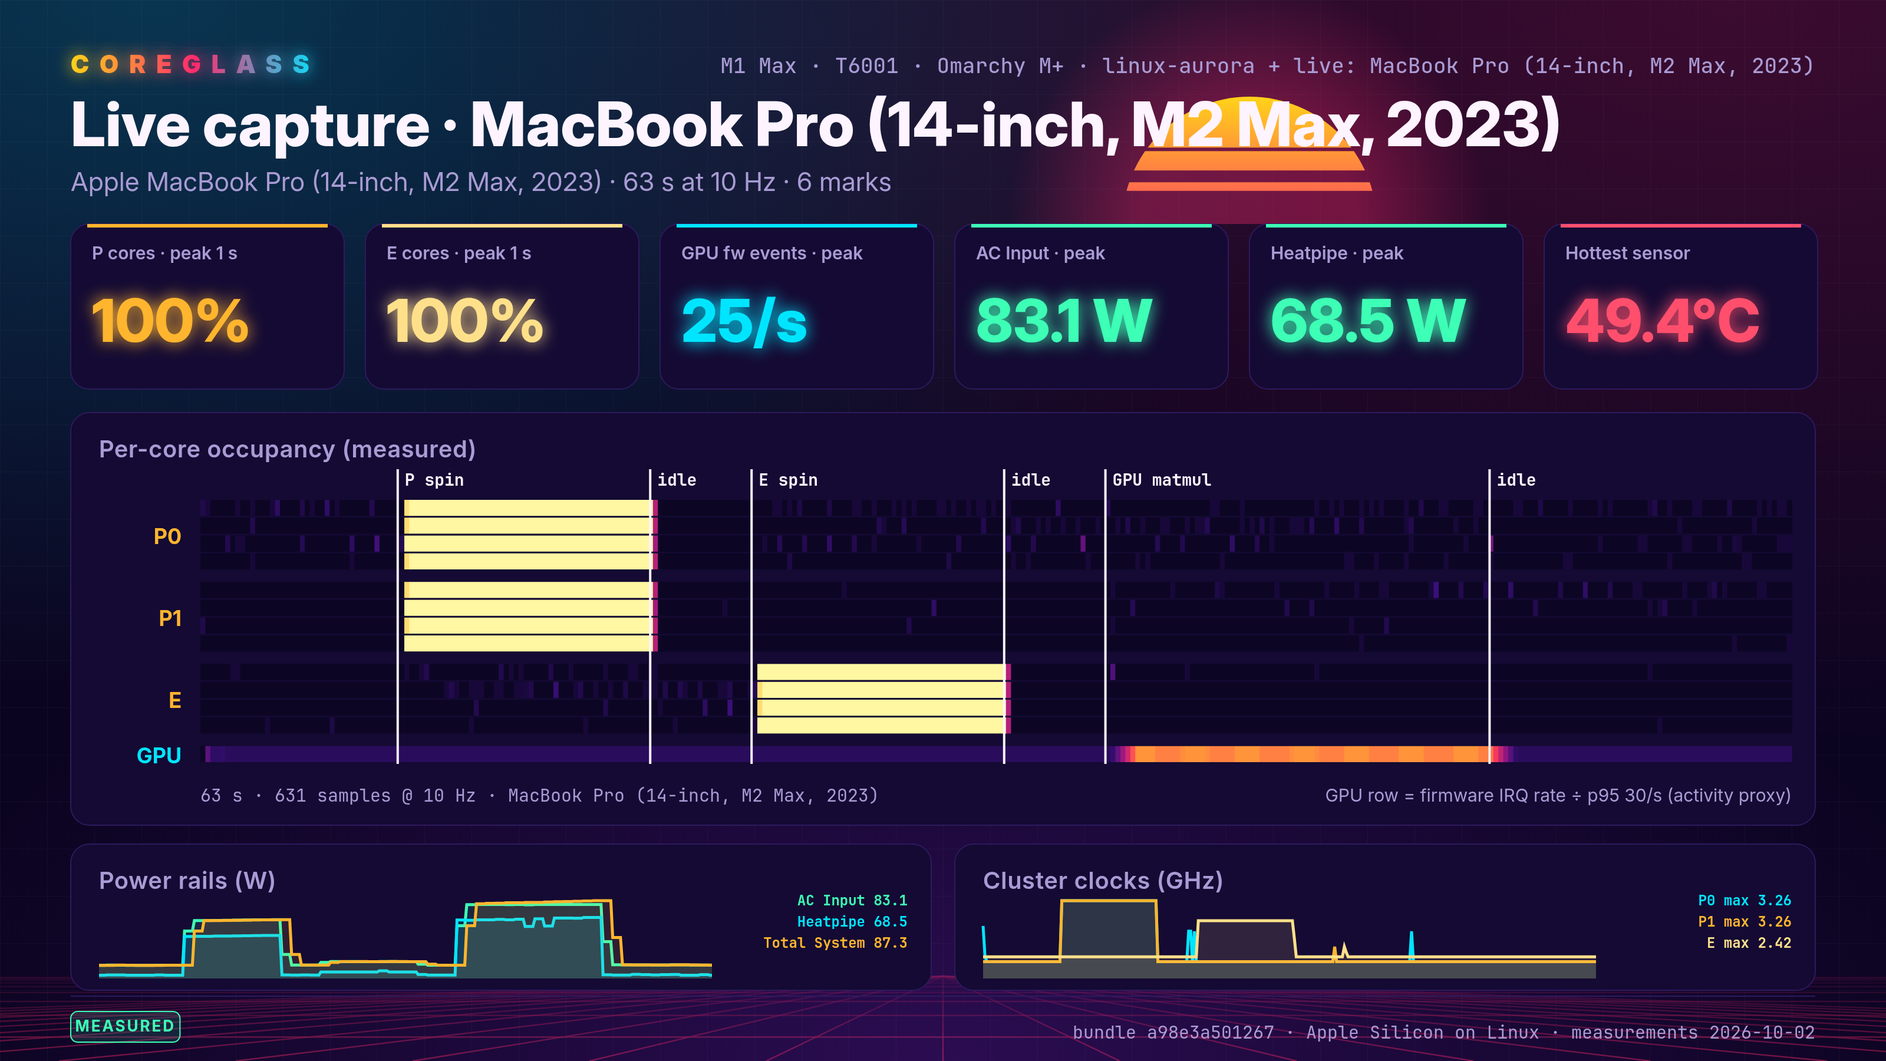
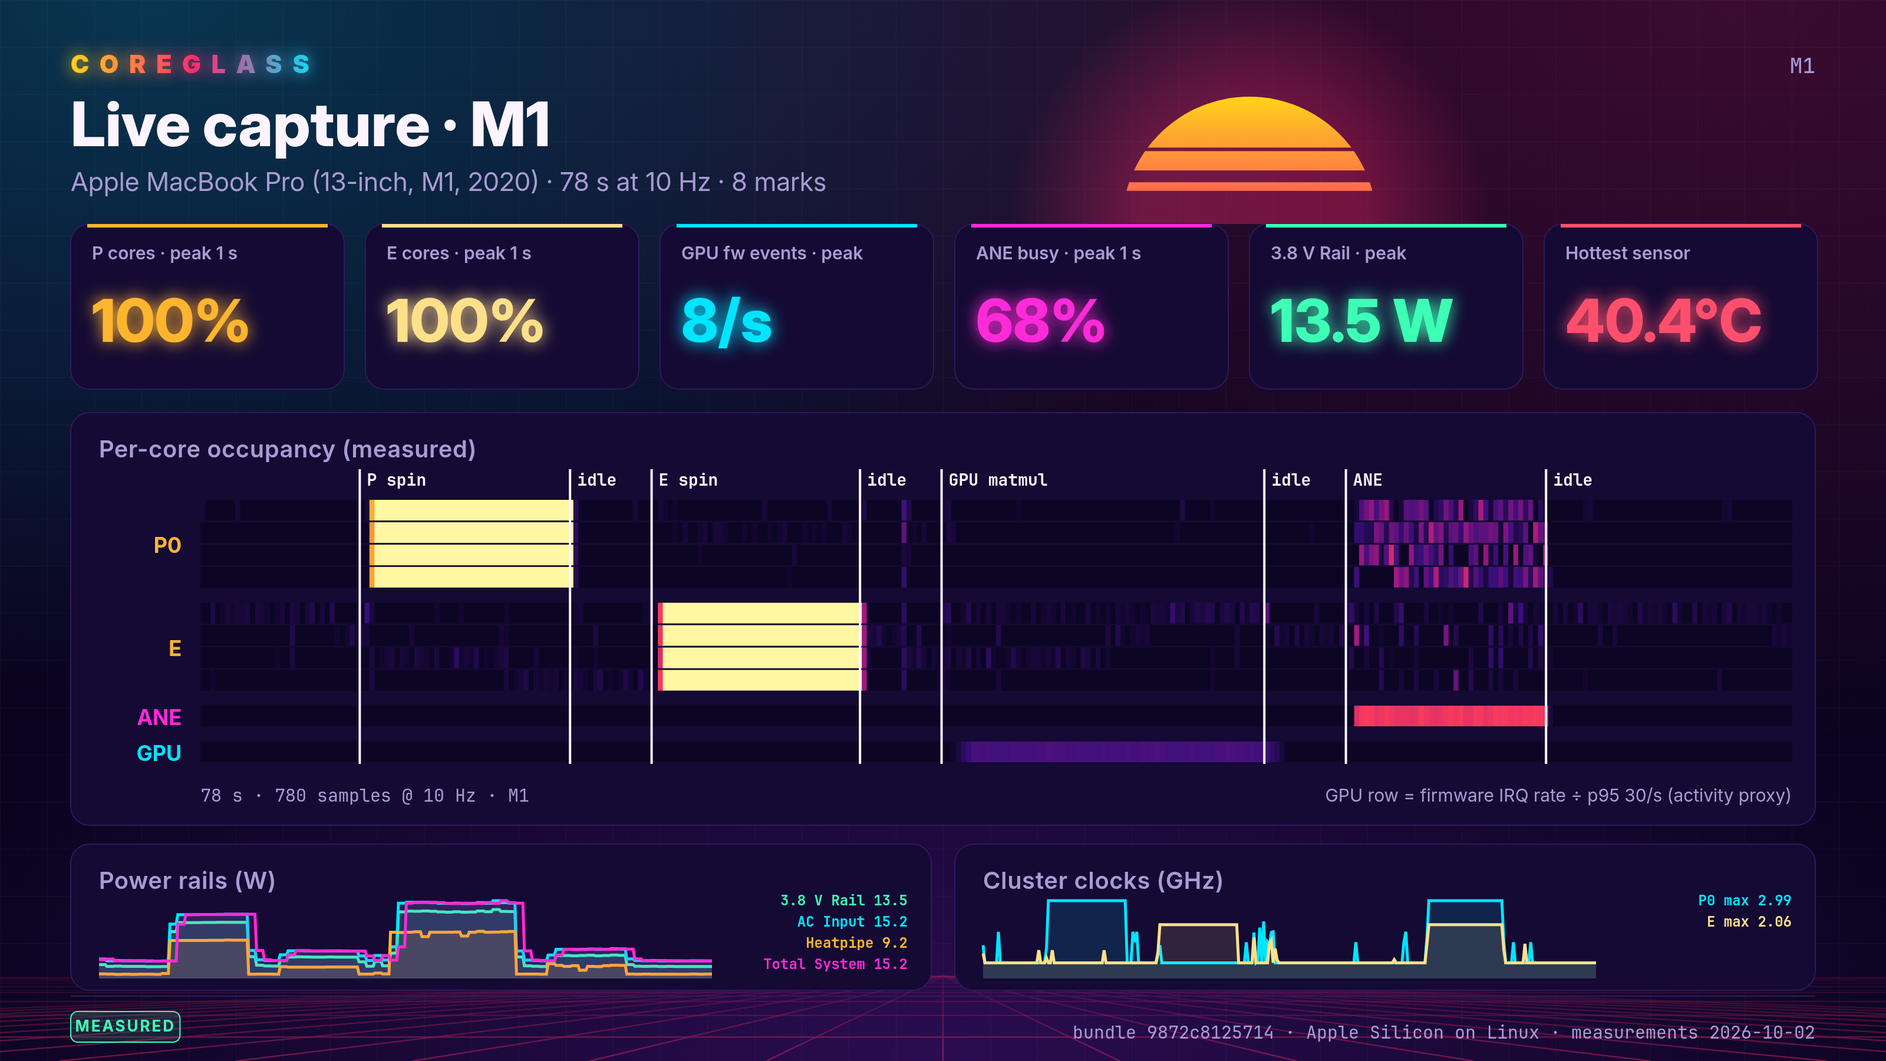
Show the ANE: probe step, live tile and row, capture frame
The probe now runs an ANE step when the target's entry sets `ane_cmd`, under the
GPU lock and an optional `ane_lock`. The live screen and the capture frame show
ANE busy time from `ane_stats`. On targets without it they say why: the driver
is loaded but exports no stats, or no ANE driver is bound. Target cards show the
ANE state.

Also: the embedded live screen no longer stays on "Waiting for sampler" when a
run attaches its session late. The capture frame names the capture's own host,
and --anonymize shortens that host to the chip name.

diff --git a/coreglass/livepage.py b/coreglass/livepage.py
@@ -58,7 +58,10 @@ function rows(){if(!meta)return[];const out=[];
   for(const n of meta.irq){if(n==='gpu_fw'&&eng.includes('gpu'))continue;
     out.push({label:n==='gpu_fw'?'GPU fw':n.replace(/\.?[0-9a-f]{6,}\.?/,'').slice(0,8)||'ANE',group:n,
     color:n==='gpu_fw'?C.gpu:C.ane,get:s=>(s.sirq[n]??0)/Math.max(irqMax[n]||0,30)})}
+  if(!eng.includes('ane')&&!meta.irq.some(n=>n!=='gpu_fw'))out.push({label:'ANE',group:'ANE',color:C.ane,none:aneWhy()});
   return out}
+function aneWhy(){const a=meta.accel;if(!a)return 'no ANE busy data in this capture';
+  return a.some(d=>d.startsWith('ane'))?'ANE driver loaded · it exports no ane_stats yet':'no ANE driver bound on this host'}
 function pickRail(pref){if(!meta||!meta.rails.length)return null;for(const p of pref){const r=meta.rails.find(x=>x.toLowerCase().includes(p));if(r)return r}return null}
 function avg(a){return a.length?a.reduce((x,y)=>x+y,0)/a.length:0}
 function clusterBusy(s,label){const cs=meta.clusters.filter(c=>label==='E'?c.label==='E':c.label!=='E').flatMap(c=>c.cpus);return avg(cs.map(i=>s.cpu[i]??0))}
@@ -75,7 +78,7 @@ function draw(){
   if(meta)txt([meta.host,meta.model,meta.kernel].filter(Boolean).join(' · '),W-60,62,17,C.dim,500,'right',true);
   const last=S[S.length-1];
   txt(meta?`${meta.replay?'Replay':'Live'} · ${meta.host}`:'Waiting for sampler…',60,124,52,C.text,800);
-  if(meta)txt(`Per-core CPU, GPU firmware events, power · ${meta.hz} Hz · ${last?last.t.toFixed(1):'0.0'} s · ${S.length} samples in view`,60,162,22,C.dim);
+  if(meta)txt(`Per-core CPU, GPU, ANE, power · ${meta.hz} Hz · ${last?last.t.toFixed(1):'0.0'} s · ${S.length} samples in view`,60,162,22,C.dim);
   if(!meta){requestAnimationFrame(draw);return}
   const recent=S.slice(-Math.max(1,Math.round(meta.hz)));
   const sys=pickRail(['total system','system']), soc=pickRail(['heatpipe','package','soc','cpu']);
@@ -86,12 +89,14 @@ function draw(){
     ...((meta.engines||[]).includes('gpu')
       ?[['GPU busy (driver)',v=>(100*v).toFixed(0)+'%',s=>s.eng?.gpu?.busy??0,C.gpu,1,true]]
       :[['GPU firmware events',v=>v.toFixed(0)+'/s',s=>s.irq.gpu_fw||0,C.gpu,0,meta.irq.includes('gpu_fw')]]),
+    ['ANE busy (driver)',v=>(100*v).toFixed(0)+'%',s=>s.eng?.ane?.busy??0,C.ane,1,(meta.engines||[]).includes('ane'),aneWhy()],
     [soc||'SoC power rail',v=>v.toFixed(1)+' W',s=>soc?s.w[soc]||0:0,C.mem,0,!!soc],
     [sys||'System power rail',v=>v.toFixed(1)+' W',s=>sys?s.w[sys]||0:0,C.mem,0,!!sys],
     ['Hottest sensor',v=>v.toFixed(1)+'°C',s=>Math.max(...Object.values(s.c),0),C.sync,0,meta.temps.length>0]];
-  tiles.forEach(([label,fmt,get,c,unit,ok],i)=>{const x=60+i*250,y=188,w=232,h=142;rr(x,y,w,h,14,C.panel,C.edge);g.fillStyle=ok?c:C.edge;g.fillRect(x+14,y,w-28,3);
-    txt(label.length>24?label.slice(0,23)+'…':label,x+18,y+30,15,C.dim,600);
-    if(!ok){txt('n/a',x+18,y+84,46,C.edge,800);txt('no source on this host',x+18,y+118,13,C.dim);return}
+  const tw=(1480-18*(tiles.length-1))/tiles.length;
+  tiles.forEach(([label,fmt,get,c,unit,ok,why],i)=>{const x=60+i*(tw+18),y=188,w=tw,h=142;rr(x,y,w,h,14,C.panel,C.edge);g.fillStyle=ok?c:C.edge;g.fillRect(x+14,y,w-28,3);
+    txt(label.length>22?label.slice(0,21)+'…':label,x+18,y+30,15,C.dim,600);
+    if(!ok){txt('n/a',x+18,y+84,46,C.edge,800);(why||'no source on this host').split(' · ').forEach((l,k)=>txt(l,x+18,y+110+k*16,12,C.dim));return}
     const v=avg(recent.map(get));g.shadowColor=c;g.shadowBlur=18;txt(last?fmt(v):'–',x+18,y+84,46,c,800);g.shadowBlur=0;
     spark(x+18,y+96,w-36,34,S.map(get),c,unit?1:0)});
   const R=rows(), hx=170, hy=372, hw=1370, hh=268, top=hy+40;
@@ -103,6 +108,7 @@ function draw(){
   let lastLab=-99;
   R.forEach((r,i)=>{const y=top+i*rh;
     if((i===0||R[i-1].group!==r.group)&&y-lastLab>=15){lastLab=y;txt(r.group==='gpu_fw'?'GPU':r.label.split('·')[0],hx-16,y+Math.max(rh*.75,11),15,r.color,800,'right')}
+    if(r.none){g.fillStyle=rgba(C.edge,.5);g.fillRect(hx,y,hw,rh-1.5);txt(r.none,hx+12,y+rh*.7,13,C.dim,600,'left',true);return}
     view.forEach((s,j)=>{g.fillStyle=col(r.get(s));g.fillRect(x0+j*cw,y,cw+.6,rh-1.5)})});
   const t1=last?last.t:0;
   for(let k=0;k<=WINDOW;k+=10){const x=hx+hw-k/WINDOW*hw;g.fillStyle='rgba(255,255,255,.12)';g.fillRect(x,top-6,1,R.length*rh+10);
@@ -122,7 +128,9 @@ function draw(){
     txt(`${c.label} ${last?((last.khz[c.label]||0)/1e6).toFixed(2):''}`,1520,770+i*18,12,c.label==='E'?C.e:pal[i+1],700,'right',true)});
   g.fillStyle=C.edge;g.fillRect(60,848,1480,1);
   chip(60,858,'MEASURED',P.measured);
-  txt('read-only procfs/sysfs sampler · GPU row = firmware mailbox IRQ rate (activity proxy, not busy time)',214,876,13,C.dim);
+  const en=meta.engines||[];
+  txt(['read-only procfs/sysfs sampler',en.includes('gpu')?'GPU = driver busy time':'GPU = firmware IRQ rate (activity proxy, not busy time)',
+    en.includes('ane')?'ANE = driver busy time':'ANE busy needs ane_stats'].join(' · '),214,876,13,C.dim);
   txt(`coreglass live · ${new Date().toISOString().slice(0,19)}Z`,W-60,876,13,C.dim,400,'right',true);
   requestAnimationFrame(draw)}
 let lastRecv=0;

diff --git a/coreglass/views.py b/coreglass/views.py
@@ -104,12 +104,13 @@ def horizon(fid, y0=828, alpha=0.42):
     return f'<g opacity="{alpha}">{out}</g>'
 
 
-def frame(fid, title, subtitle, body, b, provs, demo):
+def frame(fid, title, subtitle, body, b, provs, demo, pill=None):
     host = b.get("host", {})
-    pill = " · ".join(str(host[k]) for k in ("alias", "chip", "soc", "os", "kernel") if host.get(k))
     cap = b.get("capture")
-    if cap and cap["host"] not in pill:
-        pill += f"  +  live: {cap['host']}"
+    if pill is None:
+        pill = " · ".join(str(host[k]) for k in ("alias", "chip", "soc", "os", "kernel") if host.get(k))
+        if cap and cap["host"] not in pill:
+            pill += f"  +  live: {cap['host']}"
     used = sorted({p for p in provs if p} | ({"demo"} if demo else set()), key=list(PROV).index)
     foot, x = "", 60
     for p in used:
@@ -605,15 +606,17 @@ def view_capture(b, demo):
              ("E cores · peak 1 s", st["e_busy"], lambda v: f"{100 * v:.0f}%", PAL["e"]),
              ("GPU busy · peak 1 s", st["gpu_busy"], lambda v: f"{100 * v:.0f}%", LANE["gpu"])
              if st.get("gpu_busy") is not None else
-             ("GPU fw events · peak", st["gpu_irq"], lambda v: f"{v:.0f}/s", LANE["gpu"])]
-    tiles += [(f"{r.replace(' Power', '')} · peak", st["rails"][r], lambda v: f"{v:.1f} W", LANE["mem"]) for r in rails[:2]]
+             ("GPU fw events · peak", st["gpu_irq"], lambda v: f"{v:.0f}/s", LANE["gpu"]),
+             ("ANE busy · peak 1 s", st.get("ane_busy"), lambda v: f"{100 * v:.0f}%", LANE["ane"])]
+    tiles += [(f"{r.replace(' Power', '')} · peak", st["rails"][r], lambda v: f"{v:.1f} W", LANE["mem"]) for r in rails[:1]]
     tiles.append(("Hottest sensor", st["temp_max"], lambda v: f"{v:.1f}°C", LANE["sync"]))
     for i, (label, v, fmt, c) in enumerate(tiles[:6]):
         x = 60 + i * 250
         body += panel(x, 190, 232, 140) + r(x + 14, 190, 204, 3, c if v is not None else EDGE)
         body += t(x + 18, 220, label, 15, DIM, 600)
+        why = "driver exports no ane_stats" if label.startswith("ANE") else "no source on this host"
         body += (t(x + 18, 290, fmt(v), 50, c, 800, extra='filter="url(#capture-glow)"') if v is not None
-                 else t(x + 18, 290, "n/a", 50, EDGE, 800) + t(x + 18, 316, "no source on this host", 13, DIM))
+                 else t(x + 18, 290, "n/a", 50, EDGE, 800) + t(x + 18, 316, why, 13, DIM))
     body += panel(60, 350, 1480, 350, "Per-core occupancy (measured)")
     body += capture_heat(b, 80, 398, 1440, 296)
     body += panel(60, 716, 730, 124, "Power rails (W)") + panel(810, 716, 730, 124, "Cluster clocks (GHz)")
@@ -630,7 +633,7 @@ def view_capture(b, demo):
         body += t(1520, 768 + i * 18, f"{lab} max {max(vals):.2f}", 12, c, 700, "end", mono=True)
     return frame("capture", f"Live capture · {cap['host']}",
                  f"{cap['model']} · {cap['seconds']:g} s at {cap['hz']:g} Hz · {len(cap['marks'])} marks", body, b,
-                 ["measured"], demo)
+                 ["measured"], demo, pill=" · ".join(x for x in (cap["host"], cap["kernel"]) if x))
 
 
 VIEWS = [("hero", view_hero), ("time", view_time), ("bandwidth", view_bandwidth),

diff --git a/coreglass/remote.py b/coreglass/remote.py
@@ -37,10 +37,12 @@ for d in os.listdir("/proc"):
 model = open("/proc/device-tree/model").read().strip("\0\n") if os.path.exists("/proc/device-tree/model") else ""
 stats = {name: any(os.access(p, os.R_OK) for p in glob.glob(pat)) for name, pat in
          (("agx_stats", "/sys/class/drm/card*/device/agx_stats"), ("ane_stats", "/sys/class/accel/accel*/device/ane_stats"))}
+accel = sorted({os.path.basename(os.path.realpath(p)) for p in glob.glob("/sys/class/accel/accel*/device/driver")})
 print(json.dumps({"hostname": platform.node(), "arch": platform.machine(), "model": model,
                   "kernel": platform.release(), "python": platform.python_version(),
                   "load1": os.getloadavg()[0], "gpu_lock_held": held(lock), "busy": busy[:3],
-                  "mlx_python": bool(mlx) and os.access(mlx, os.X_OK), "stats": [k for k, v in stats.items() if v]}))
+                  "mlx_python": bool(mlx) and os.access(mlx, os.X_OK), "stats": [k for k, v in stats.items() if v],
+                  "accel": accel}))
 """
 
 SPIN = "for c in {cpus}; do timeout {secs} taskset -c $c sh -c 'while :; do :; done' coreglass-spin & done; wait || true"
@@ -56,6 +58,9 @@ while time.time() < end:
     n += 1
 print(f"matmuls={{n}} tflops={{n * 2 * 4096**3 / {secs} / 1e12:.2f}}", flush=True)
 PY"""
+ANE = """end=$(( $(date +%s) + {secs} )); n=0
+while [ "$(date +%s)" -lt "$end" ]; do {lock}sh -c {cmd} >/dev/null || exit 3; n=$((n + 1)); done
+echo ane_batches=$n"""
 
 
 def load_hosts():
@@ -118,7 +123,8 @@ def hosts_cmd(names):
 
 
 def probe_steps(host, meta, secs):
-    """Built-in steps: spin every P core, spin every E core, then an MLX matmul under the GPU lock."""
+    """Built-in steps: spin every P core, spin every E core, an MLX matmul under the GPU lock, then the
+    host's `ane_cmd` in a loop under the GPU lock (and `ane_lock`, when set)."""
     by = {c["label"]: c["cpus"] for c in meta["clusters"]}
     p = [c for lab, cs in by.items() if lab != "E" for c in cs]
     steps = [("P spin", SPIN.format(cpus=" ".join(map(str, p)), secs=secs), False)] if p and "E" in by else []
@@ -128,6 +134,9 @@ def probe_steps(host, meta, secs):
         steps.append(("CPU spin", SPIN.format(cpus=" ".join(map(str, p)), secs=secs), False))
     if host.get("mlx_python"):
         steps.append(("GPU matmul", MATMUL.format(py=host["mlx_python"], secs=secs + 5), True))
+    if host.get("ane_cmd"):
+        lock = f"flock -w 60 {shlex.quote(host['ane_lock'])} " if host.get("ane_lock") else ""
+        steps.append(("ANE", ANE.format(secs=secs, lock=lock, cmd=shlex.quote(host["ane_cmd"])), True))
     return steps
 
 

diff --git a/coreglass/apppage.py b/coreglass/apppage.py
@@ -89,7 +89,7 @@ BODY = """
 <div id="splash"><div><div class="sun"></div><div class="mark">Coreglass</div></div></div>
 <div id="help" hidden onclick="toggleHelp()"><div class="card"><span class="mark">Keys</span><dl>
 <dt><kbd>1</kbd>–<kbd>9</kbd></dt><dd>pick a target</dd><dt><kbd>l</kbd></dt><dd>watch the target live</dd>
-<dt><kbd>r</kbd></dt><dd>run the probe: P cores, E cores, GPU matmul</dd><dt><kbd>esc</kbd></dt><dd>stop</dd>
+<dt><kbd>r</kbd></dt><dd>run the probe: P cores, E cores, GPU matmul, ANE</dd><dt><kbd>esc</kbd></dt><dd>stop</dd>
 <dt><kbd>m</kbd></dt><dd>drop a mark on the timeline</dd><dt><kbd>f</kbd></dt><dd>full-screen the live screen</dd>
 <dt><kbd>↑</kbd> <kbd>↓</kbd></dt><dd>pick a capture</dd><dt><kbd>enter</kbd></dt><dd>replay it</dd>
 <dt><kbd>b</kbd></dt><dd>build shareable frames</dd><dt><kbd>t</kbd></dt><dd>synthwave ⇄ your Omarchy theme</dd>
@@ -111,7 +111,8 @@ function renderHosts(){$('#hosts').innerHTML=hosts.map((h,i)=>{const p=h.preflig
   const busy=h.blockers.length>0;return `<div class="host ${i===hi?'sel':''}" onclick="hi=${i};renderHosts()">
   <div class="hn"><kbd>${i+1}</kbd><b>${esc(h.name)}</b><span class="badge ${cls}">${txt}</span></div>
   <div class="hm">${esc(p.reachable?p.model.replace(/^Apple /,''):h.ssh)}</div>
-  ${p.reachable?`<div class="hx">${esc(p.arch)} · load ${p.load1.toFixed(2)} · MLX ${p.mlx_python?'✓':'–'} · stats ${p.stats.length?esc(p.stats.join(',')):'–'}</div>`:''}
+  ${p.reachable?`<div class="hx">${esc(p.arch)} · load ${p.load1.toFixed(2)} · GPU ${p.stats.includes('agx_stats')?'stats':'irq'} · MLX ${p.mlx_python?'✓':'–'}</div>
+  <div class="hx">ANE ${p.stats.includes('ane_stats')?'stats ✓':(p.accel||[]).some(d=>d.startsWith('ane'))?'driver, no stats':'–'} · ANE probe ${h.ane?'✓':'–'}</div>`:''}
   ${busy?`<div class="why">${esc(h.blockers[0])}</div>`:''}
   <div class="hb"><button onclick="event.stopPropagation();hi=${i};live()" ${p.reachable?'':'disabled'}>Live<kbd>l</kbd></button>
   <button class="primary" onclick="event.stopPropagation();hi=${i};run()" ${busy||!p.reachable?'disabled':''}>Run probe<kbd>r</kbd></button></div></div>`}).join('')}

diff --git a/coreglass/model.py b/coreglass/model.py
@@ -7,6 +7,7 @@ modeled or demo value off as a measurement.
 
 import hashlib
 import json
+import re
 from pathlib import Path
 
 SCHEMA = "coreglass/v1"
@@ -51,7 +52,8 @@ def anonymize(b):
     cap, host = b.get("capture") or {}, b.get("host", {})
     swaps = {host.get(k): "" for k in ("alias", "kernel", "runtime") if host.get(k)}
     if cap:
-        swaps |= {cap["host"]: (cap.get("model") or "target").removeprefix("Apple "), cap["src"]: "capture"}
+        chip = re.search(r"\bM\d+(?: (?:Pro|Max|Ultra))?\b", cap.get("model", ""))
+        swaps |= {cap["host"]: chip.group(0) if chip else "target", cap["src"]: "capture"}
         swaps |= {cap["kernel"]: ""} if cap.get("kernel") else {}
     text = json.dumps(b)
     for old, new in sorted(swaps.items(), key=lambda kv: -len(kv[0])):

diff --git a/coreglass/live.py b/coreglass/live.py
@@ -76,12 +76,13 @@ class LiveHandler(BaseHTTPRequestHandler):
 
     def serve_events(self):
         hub = self.hub()
-        if hub is None:
-            return self.send_error(404, "no active session")
         self.send_response(200)
         self.send_header("Content-Type", "text/event-stream")
         self.send_header("Cache-Control", "no-cache")
         self.end_headers()
+        if hub is None:  # session still connecting: tell EventSource to reconnect in 1 s
+            self.wfile.write(b"retry: 1000\n\n")
+            return
         q = hub.subscribe()
         try:
             while True:

diff --git a/coreglass/ingest.py b/coreglass/ingest.py
@@ -77,6 +77,8 @@ def capture(path, cols=320):
         "gpu_irq": peak([s["irq"].get("gpu_fw", 0.0) for s in samples]) if "gpu_fw" in meta["irq"] else None,
         "gpu_busy": peak([s.get("eng", {}).get("gpu", {}).get("busy", 0.0) for s in samples]) if "gpu" in engines
         else None,
+        "ane_busy": peak([s.get("eng", {}).get("ane", {}).get("busy", 0.0) for s in samples]) if "ane" in engines
+        else None,
         "rails": {r: peak([s["w"].get(r, 0.0) for s in samples]) for r in rails},
         "temp_max": max((v for s in samples for v in s["c"].values()), default=None),
     }

diff --git a/coreglass/sampler.py b/coreglass/sampler.py
@@ -136,6 +136,7 @@ def main():
         "rails": sorted(label for kind, label in rails if kind == "w"),
         "temps": sorted(label for kind, label in rails if kind == "c"),
         "irq": sorted(irq_counts(want)), "engines": sorted(eng), "started": time.time(),
+        "accel": sorted({os.path.basename(os.path.realpath(p)) for p in glob.glob("/sys/class/accel/accel*/device/driver")}),
     }}), flush=True)
     prev_cpu, prev_irq, prev_t = cpu_times(), irq_counts(want), time.monotonic()
     prev_eng = {name: read_kv(p) for name, p in eng.items()}

diff --git a/coreglass/app.py b/coreglass/app.py
@@ -134,7 +134,7 @@ class App:
             h = remote.resolve(n)
             pf = remote.preflight(h)
             return {"name": n, "ssh": h["ssh"], "chip": h.get("chip", ""), "mlx": bool(h.get("mlx_python")),
-                    "preflight": pf, "blockers": remote.blockers(pf)}
+                    "ane": bool(h.get("ane_cmd")), "preflight": pf, "blockers": remote.blockers(pf)}
         with ThreadPoolExecutor(max_workers=8) as ex:
             return {"file": str(path), "hosts": list(ex.map(one, names))}
 

diff --git a/README.md b/README.md
@@ -26,12 +26,12 @@ List your targets in `~/.config/coreglass/hosts.toml`. Start from [hosts.example
 Launch Coreglass from the app launcher, or run `coreglass` with no arguments.
 It opens in its own window and drives everything from the keyboard.
 
-![The Coreglass app replaying a capture from an M2 Max](docs/app.png)
+![The Coreglass app replaying a probe on an M1: P cores, E cores, GPU matmul, then the ANE at 68% busy](docs/app.png)
 
 | Key | Action |
 |---|---|
 | `1` to `9` | pick a target |
-| `l` / `r` | watch it live / run the probe (P cores, E cores, GPU matmul) |
+| `l` / `r` | watch it live / run the probe (P cores, E cores, GPU matmul, ANE) |
 | `m` / `f` / `esc` | mark the timeline / full screen / stop |
 | `↑` `↓` then `enter` | pick a capture and replay it |
 | `b` | build shareable frames from the capture |
@@ -45,7 +45,7 @@ Captures and frames live in `~/.local/share/coreglass/`.
 ```sh
 coreglass hosts                      # reachable? arch, model, load, GPU lock, MLX per target
 coreglass live m2max                 # live dashboard at http://127.0.0.1:8777/
-coreglass run m2max                  # capture + P-core, E-core, and MLX GPU probe steps, with marks
+coreglass run m2max                  # capture + P-core, E-core, GPU, and ANE probe steps, with marks
 coreglass phases captures/<capture>.jsonl                      # per-phase means of that run
 coreglass build reference captures/<capture>.jsonl -o out/x --png   # reference = bundled measurements
 coreglass live x --replay captures/<capture>.jsonl --speed 4   # play a capture back
@@ -61,10 +61,12 @@ The live view streams per-core CPU load, cluster clocks, power rails, temperatur
 It samples at 10 Hz.
 The sampler is read-only and needs no root. Press `m` to mark an event, `p` to save the dashboard as a 3200×1800 PNG.
 
-![Capture on an M2 Max: P-core load, E-core load, then an MLX matmul on the GPU](docs/capture.png)
+![Capture on an M1: P-core load, E-core load, an MLX matmul on the GPU, then ANE busy time from ane_stats](docs/capture.png)
 
 Today the GPU row is the firmware interrupt rate. That shows activity, not busy time.
-Drivers that export `agx_stats` or `ane_stats` switch the rows to measured busy time.
+The ANE row and tile show measured busy time on targets whose driver exports `ane_stats`.
+On other targets they say why the data is missing. `agx_stats` does the same for the GPU.
+The probe drives the ANE when the target's entry sets `ane_cmd` (see [hosts.example.toml](hosts.example.toml)).
 [docs/DESIGN.md](docs/DESIGN.md) has the producer contract and the reasons the data is missing today.
 
 ## Output

diff --git a/docs/DESIGN.md b/docs/DESIGN.md
@@ -174,8 +174,9 @@ busy_patterns = ["my-benchmark"]           # optional, processes that mean "busy
 - `coreglass run <host>` refuses when the preflight finds a held GPU lock, load1 ≥ 0.5, or a busy process,
   unless `--force`. It then starts a capture, waits an idle baseline, and runs each step over SSH with a
   mark before and after. `--gpu-step` wraps the command in `flock -w 60 <gpu_lock>`. With no steps it
-  runs the built-in probe: spin every P core, spin every E core (cluster map from the sampler), and an
-  MLX 4096×4096 fp16 matmul loop when `mlx_python` is set.
+  runs the built-in probe: spin every P core, spin every E core (cluster map from the sampler), an
+  MLX 4096×4096 fp16 matmul loop when `mlx_python` is set, and an ANE step when `ane_cmd` is set. The ANE
+  step loops `ane_cmd` for the step length under `gpu_lock` and, when set, `flock -w 60 <ane_lock>`.
 - Each run writes `captures/<host>-<UTC>.jsonl` and `<same>.run.json` (`coreglass/run/v1`): host entry,
   preflight, any blockers overridden, per-step label, command, exit code, wall and capture times,
   output tails, and the Coreglass commit.
@@ -261,7 +262,7 @@ Acceptance for each producer:
 
 1. The file exists, is readable without root, and matches the format above. `coreglass hosts` lists it
    under `stats` (`agx_stats`, `ane_stats`).
-2. Under `coreglass run <host>` (built-in probe, or `--step 'ANE encoder=<cmd>'` for the ANE), then
+2. Under `coreglass run <host>` (built-in probe; set `ane_cmd` for the ANE step), then
    `coreglass phases captures/<file>.jsonl`: `gpu_busy` (or `ane_busy`) ≥ 0.9 in the matmul (or ANE
    encoder) phase and ≤ 0.05 in the idle phase.
 3. `busy_ns` advances by no more than wall time per tick, and `jobs` matches the submissions the workload

diff --git a/AGENTS.md b/AGENTS.md
@@ -26,7 +26,7 @@ Python 3.11+, standard library only. Chrome or Chromium is needed only for `--pn
 | Tests | `python3 -m unittest discover -s tests` |
 
 Targets come from `~/.config/coreglass/hosts.toml` (format: `hosts.example.toml`). Each entry has
-`ssh`, `gpu_lock`, and optional `mlx_python` and `busy_patterns`. A bare SSH alias also works.
+`ssh`, `gpu_lock`, and optional `mlx_python`, `busy_patterns`, `ane_cmd`, and `ane_lock`. A bare SSH alias also works.
 
 ## Rules for runs on shared machines
 
